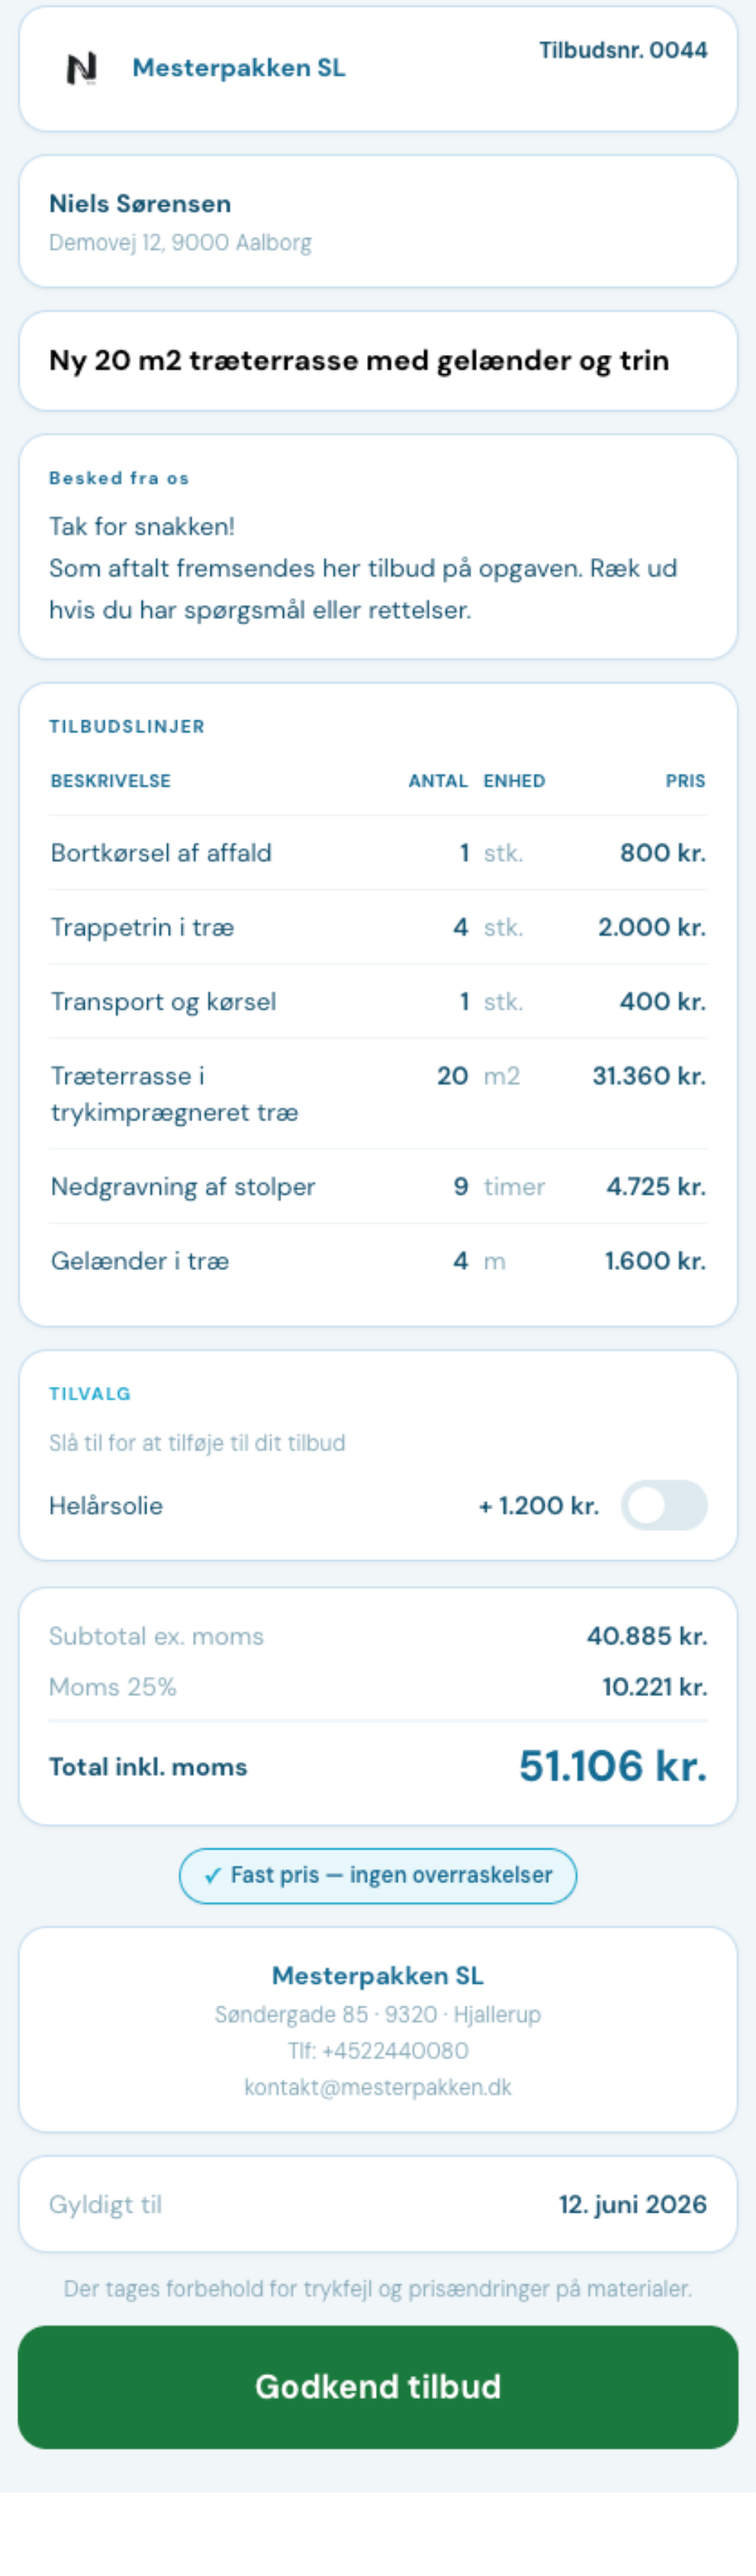
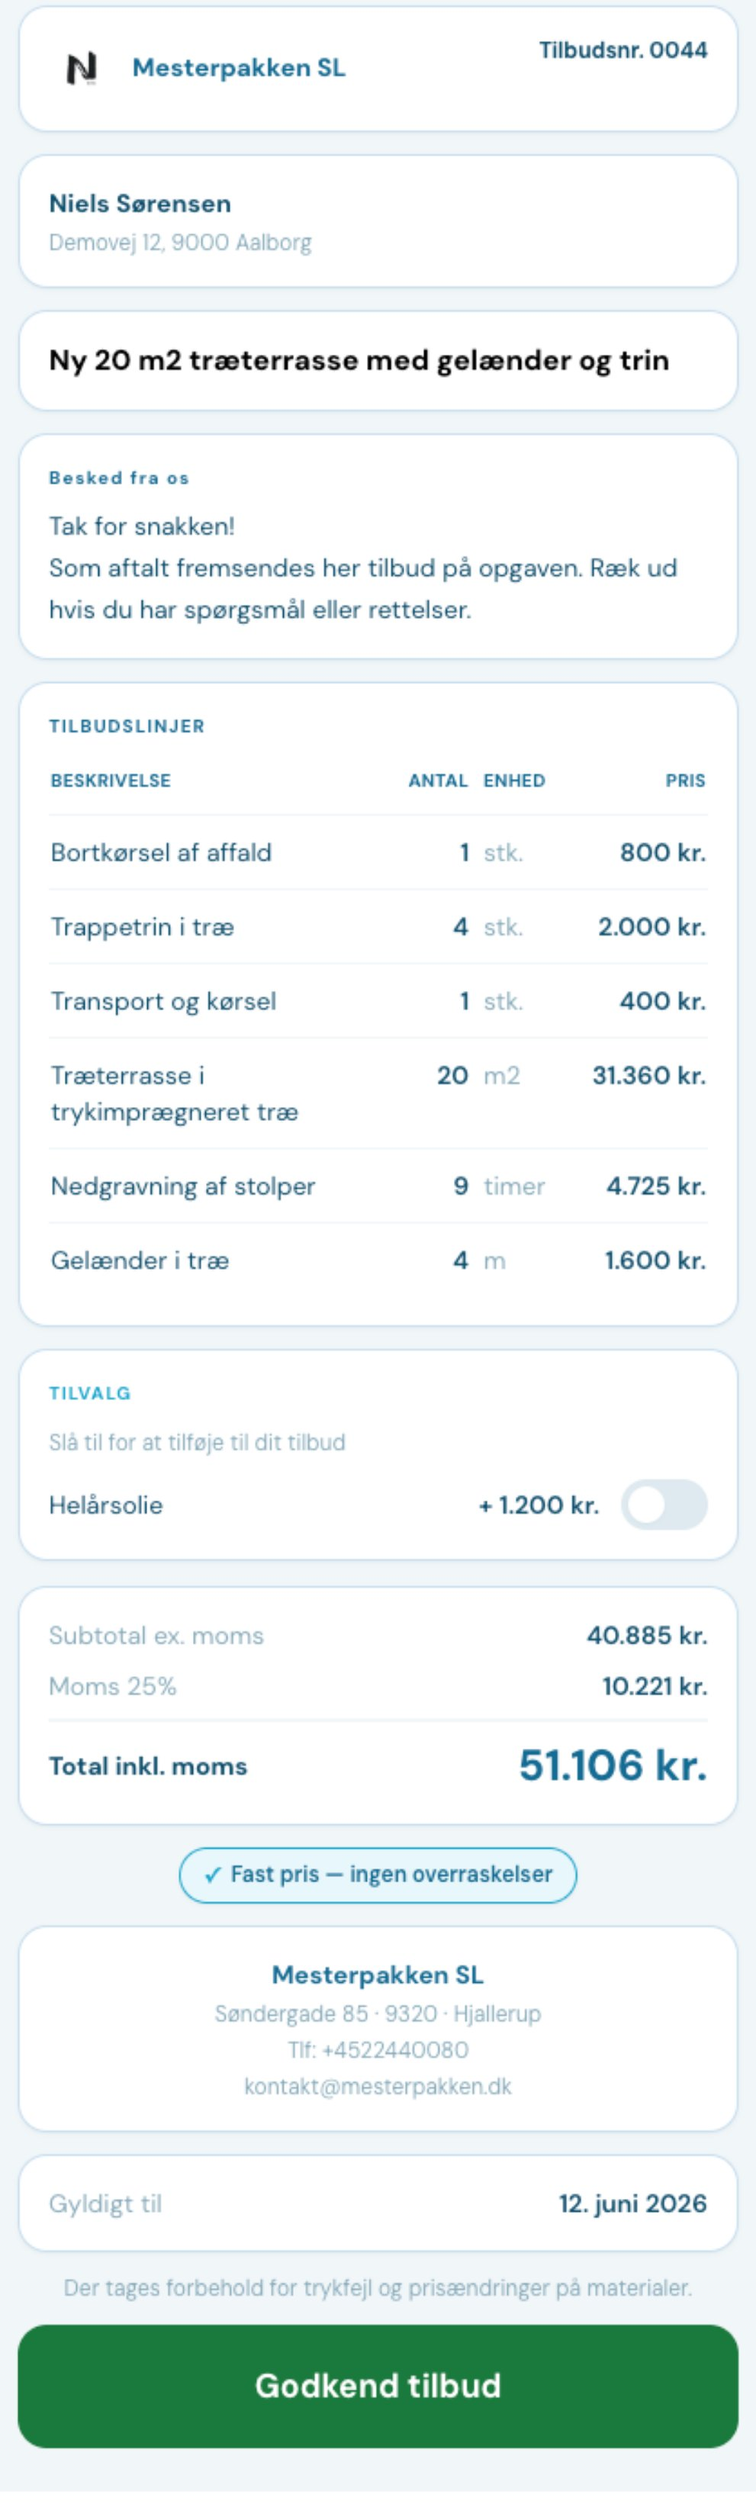
fix: update quote preview image

diff --git a/index.html b/index.html
@@ -726,6 +726,7 @@
         0 10px 20px rgba(0, 0, 0, 0.22),
         0 0 0 1px rgba(255, 255, 255, 0.06);
       padding: 10px;
+      isolation: isolate;
     }
     .customer-offer-image {
       width: 100%;
@@ -735,6 +736,7 @@
       display: block;
       object-fit: contain;
       background: transparent;
+      mix-blend-mode: multiply;
     }
 
     /* Features */
